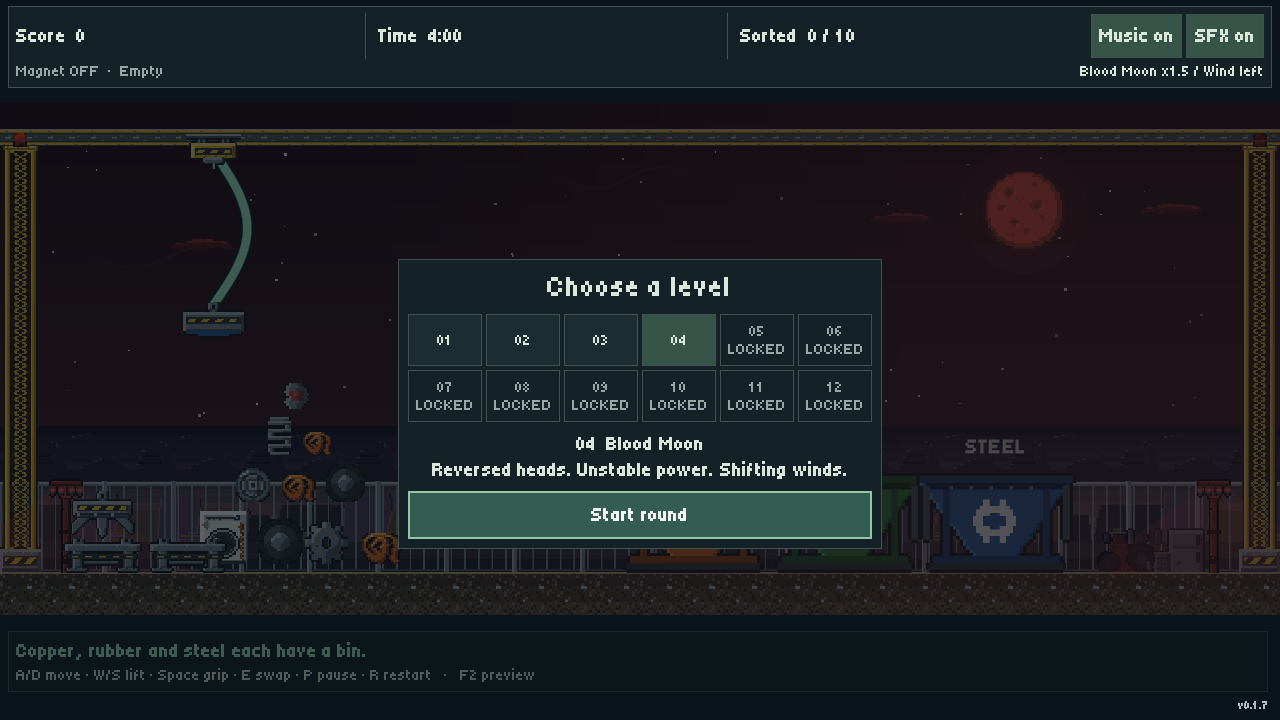
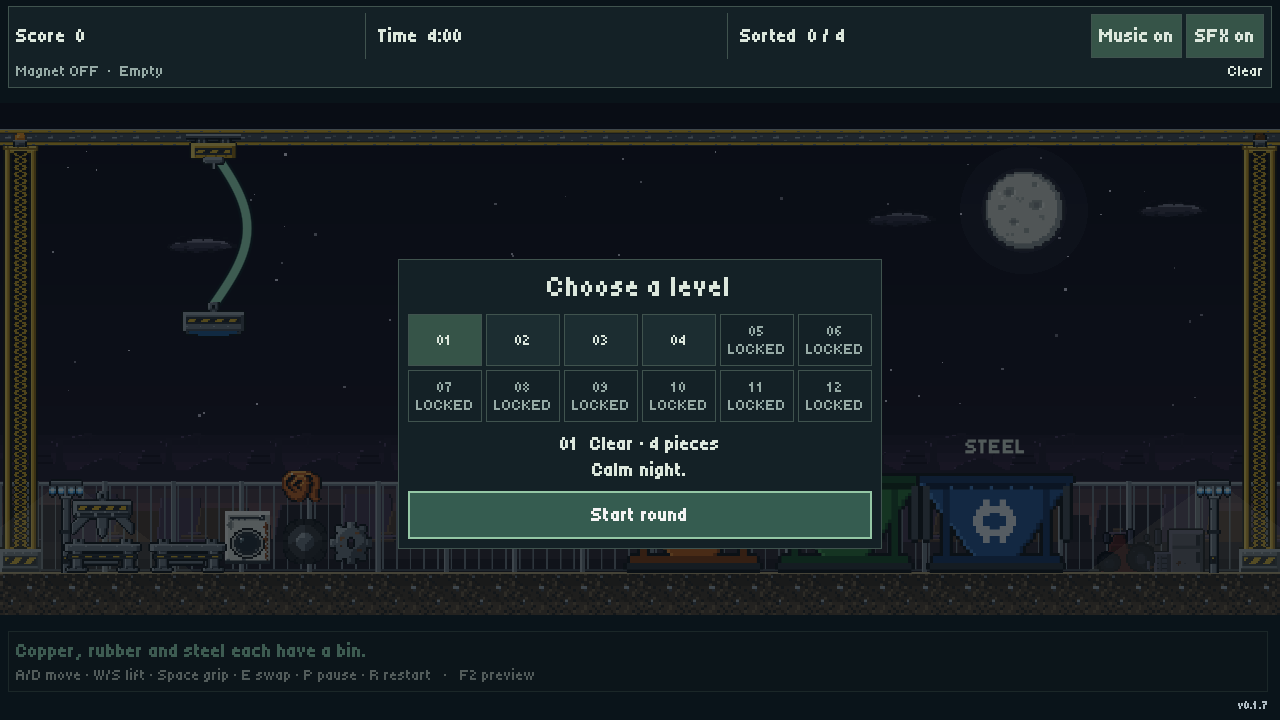
Open level selection at startup and progress through victory screens

diff --git a/tests/run_checks.py b/tests/run_checks.py
@@ -7,6 +7,7 @@ ROOT = Path(__file__).resolve().parents[1]
 BASE = ["godot", "--headless", "--path", str(ROOT)]
 checks = [
     (BASE + ["--editor", "--import", "--quit"], None),
+    (BASE + ["--script", "tests/level_progression_test.gd", "--quit-after", "900", "--max-fps", "60"], "LEVEL_PROGRESSION_TEST_OK"),
     (BASE + ["--script", "tests/blood_moon_test.gd", "--quit-after", "600", "--max-fps", "60"], "BLOOD_MOON_TEST_OK"),
     (BASE + ["--script", "tests/level_selection_test.gd", "--quit-after", "300", "--max-fps", "60"], "LEVEL_SELECTION_TEST_OK"),
     (BASE + ["--script", "tests/input_test.gd", "--max-fps", "60", "--quit-after", "1800", "--", "--touch-controls"], "INPUT_TEST_OK"),

diff --git a/specs/levels.md b/specs/levels.md
@@ -1,10 +1,10 @@
 # Level selection
 
-Reviewed: 2026-09-25. Implementation: level-grid change based on `374729e`.
+Reviewed: 2026-09-25. Implementation: level-flow change based on `575407c`.
 
 `scripts/level/level_catalog.gd` owns twelve slots and four unlocked profiles. Level 1 reuses `data/weather/clear.tres` with no effects. Levels 2 and 3 use `data/levels/breezy.tres` and `violent.tres`; both enable all five existing effects with increasing intensity. Original weighted weather resources/API remain available to labs and tests.
 
-The playable scene starts at level 1 in the ready grid. Selection is accepted only while ready and only for unlocked indexes. Rebuilding uses the selected profile unless the test-only `forced_weather` override is set. Replay retains selection; Levels on pause/results returns to ready. Blood Moon (slot 4) uses a fresh randomized profile from `roll_weather`; slots 5–12 remain locked. No unlock persistence exists. Geometry, controls, scoring rules and timer remain shared.
+`project.godot`, source launcher and exports all open the playable scene at level 1 in the ready grid. Selection is accepted only while ready and only for unlocked indexes. Rebuilding uses the selected profile unless the test-only `forced_weather` override is set. Explicit restart retains selection. A win shows Victory with score/bonuses and Continue; Continue returns to the grid and highlights the next unlocked level (or stays on level 4 after its win). Timeout offers Retry plus Levels; pause offers Levels. Blood Moon (slot 4) uses a fresh randomized profile from `roll_weather`; slots 5–12 remain locked. No unlock persistence exists. Geometry, controls, scoring rules and timer remain shared.
 
 HUD `level_menu` enables the grid and Levels action; `selected_level` selects the tile. `level_selected(index)` and `levels_requested` delegate transitions to the scene. Twelve minimum-44px tiles use six columns, four below 500px. Locked tiles are disabled and labeled LOCKED. Mouse/touch and controller direction selection are supported.
 
@@ -23,3 +23,11 @@ Weather rolls: base wind 16–40, gust 18–40, rain 45–120, fog 0.1–0.28, g
 Verification: `tests/blood_moon_test.gd` covers independent bounded rolls, head mapping, animal exclusion, smooth wind crossing/caps, lamp stutter/outage/recovery, pause and return to Clear.
 
 Blood Moon validation: full managed Godot 4.7 suite passed (`CHECKS_OK`); the subsequent focused test passed real pickup/refusal through both reversed heads. Hardware Gamescope captures on RTX 2080 Ti checked ready, running and outage at 1280×720, 640×360 and 390×844 with Dummy audio. Evidence is local under `.local/blood-moon/`. No new hosted build was published.
+
+## Pile progression and flow verification
+
+Catalog counts are 4, 6, 10 and 12. Layout uses per-count non-overlapping row recipes, all three materials and the existing deterministic jitter/physical settling. Ready details show the selected count. `tests/level_progression_test.gd` checks every count/variant for bounds, material coverage and overlap; all four victories precede grid navigation; button/controller Continue, final-level selection, timeout Retry/Levels and result bounds are covered. Startup navigation reads the configured main scene. The full physics bot retains its original ten-piece test on level 3 with explicit Clear weather.
+
+World rebuilds clear transient feedback so a previous level’s tool/power messages cannot linger on the next selection screen.
+
+Level-flow validation: full managed Godot 4.7 suite passed, including the original ten-piece physics completion in 170.05 simulated seconds. Focused progression checks passed after clearing stale transition feedback. Silent RTX 2080 Ti/Gamescope captures checked opening, victory, next selection and final victory at 1280×720, 960×540, 854×480, 640×360 and 390×844. Local evidence: `.local/level-progression/`. No release/deployment was created.

diff --git a/specs/salvage_prototype.md b/specs/salvage_prototype.md
@@ -1,12 +1,12 @@
 # Playable subsystem integration
 
-Reviewed: 2026-09-25. Implementation: Blood Moon change based on `374729e`.
+Reviewed: 2026-09-25. Implementation: level-flow change based on `575407c`.
 
 ## Composition
 
-`labs/salvage/lab.tscn` composes crane suspension, round/bin, HUD, level layout, ambience and audio modules without replacing the static yard preview. `scripts/scene/yard_preview.gd` adds Play prototype; F2 returns (hidden in `standalone` exports, which start this scene directly). Each subsystem keeps its own lab and verification. The world renders into a native-resolution SubViewport between the HUD bands (measured panel bounds with 6px clearance), fitting 1200×480 world units with preserved aspect ratio. Placements come from [the layout module](level_layout.md), variant 0.
+`labs/salvage/lab.tscn` composes crane suspension, round/bin, HUD, level layout, ambience and audio modules without replacing the static yard preview. The project opens this playable scene at the ready level grid. `scripts/scene/yard_preview.gd` retains Play prototype; F2 opens the preview (hidden in `standalone` exports, which start this scene directly). Each subsystem keeps its own lab and verification. The world renders into a native-resolution SubViewport between the HUD bands (measured panel bounds with 6px clearance), fitting 1200×480 world units with preserved aspect ratio. Placements come from [the layout module](level_layout.md), variant 0.
 
-Ten caller-configured RigidBody2D payloads (`payload.gd`, layer 2) start as a heap; three bins share walls (layer 1); the magnet body is layer 4. Payloads use rectangle shapes and 8× art scaled to their rectangle. Bin art stays axis-aligned; masks are not integrated. `payload.grip_offset()` is the middle of whichever edge currently faces up, so tumbled scrap stays reachable; `grip_point()` is its world position. Payloads emit `landed(at)` on contact while falling faster than 160 units/s.
+Level-dependent 4/6/10/12 caller-configured RigidBody2D payloads (`payload.gd`, layer 2) start as a heap; three bins share walls (layer 1); the magnet body is layer 4. Payloads use rectangle shapes and 8× art scaled to their rectangle. Bin art stays axis-aligned; masks are not integrated. `payload.grip_offset()` is the middle of whichever edge currently faces up, so tumbled scrap stays reachable; `grip_point()` is its world position. Payloads emit `landed(at)` on contact while falling faster than 160 units/s.
 
 ## Heads and stands
 
@@ -22,7 +22,7 @@ The [input module](input.md) additionally supports a standard gamepad and automa
 
 ## Round rules
 
-`ROUND_SECONDS` is 240. A released piece in the matching bin scores +100 and is retired. A wrong bin scores −25 (the score may go negative) and lobs the piece to `REJECT_CLEARANCE` (120) units in front of the leftmost bin, clear of its wall and within reach, so it must still be sorted. Sorting all ten correctly ends the round with 5 points per displayed remaining second (ceiling, matching the timer); reaching zero ends it without. Either end releases the load, disables bins and shows results. The HUD receives snapshots and never owns state.
+`ROUND_SECONDS` is 240. A released piece in the matching bin scores +100 and is retired. A wrong bin scores −25 (the score may go negative) and lobs the piece to `REJECT_CLEARANCE` (120) units in front of the leftmost bin, clear of its wall and within reach, so it must still be sorted. Sorting every piece correctly ends the round with 5 points per displayed remaining second (ceiling, matching the timer); reaching zero ends it without. Either end releases the load, disables bins and shows results. The HUD receives snapshots and never owns state.
 
 ## Presentation
 

diff --git a/design/levels.md b/design/levels.md
@@ -8,10 +8,14 @@ This replaces the earlier random-weather selection in the playable round; the re
 
 RaresKeY, 2026-09-25: [Blood Moon directive](../prompts/source/blood-moon.md) adds level 4 with tainted moon/sky/lights/weather, crows only, reversed heads, intermittent light/generator failure, low-to-medium random weather and smoothly reversing bounded wind.
 
+RaresKeY, 2026-09-25: [level-flow request](../prompts/source/level-flow.md) asks for selection on startup and between levels, preceded by victory results, and Dale’s spawning design with fewer pieces initially and more later. Dale’s [recorded direction](../prompts/source/jam-polish.md) is a big starting pile; the conveyor remains a separate unapproved proposal.
+
 ## AI-inferred design
 
-Twelve numbered square slots, eight locked placeholders, no progression save or automatic unlocking. All four use the existing yard, ten pieces and four-minute timer. Clear, Breezy and Violent are provisional names. Replay retains the chosen level; pause/results provide a Levels action. Mouse/touch selects tiles; controller directions select unlocked levels before A starts. Six columns, four on narrow screens.
+Twelve numbered square slots, eight locked placeholders, no progression save or automatic unlocking. All four use the existing yard and four-minute timer, with progressively larger starting piles. Clear, Breezy and Violent are provisional names. Explicit restart retains the chosen level; victory Continue returns to selection with the next playable level highlighted. Pause and timeout results provide a Levels action. Mouse/touch selects tiles; controller directions select unlocked levels before A starts. Six columns, four on narrow screens.
 
 Breezy: wind 18 + gust 24 every 7–12s, rise 1.5s, grip 0.7, fog 0.18, rain 70, lightning every 35–50s with 1.4s warning and 0.35s cut, multiplier 1.2. Violent: wind 100 + gust 180 every 4–6s, rise 0.8s, grip 0.3, fog 0.3, rain 260, lightning every 8–16s with 1s warning and 1.4s cut, multiplier 1.8. These balance values are agent choices awaiting playtesting.
 
 Blood Moon choices: retain head appearance/animations but swap materials and electrically powered behavior. Wind base 16–40, gust 18–40, rain 45–120, fog 0.10–0.28 and grip 0.55–0.85 roll once per rebuild from independent resource copies; multiplier 1.5. Direction starts randomly, holds 8–18s, then alternates through a 3s smoothstep with signed force capped at ±80. Generator waits 18–32s, right lamp stutters in eight 0.2s steps, power stops for 2–4s, then recovers. Both floodlight cones go dark during generator outage; the right lamp alone stutters. Existing smoke represents the generator exhaust, so new smoke pauses while stopped. Crimson is `(1, .32, .27)`; sky gradient is `220912`–`391721`. Light cones are the existing light masks; collision and alpha-occlusion masks keep their geometry/coverage. These are implementation choices, not separately approved balance values.
+
+Progression choices: 4, 6, 10 and 12 pieces; non-overlapping rows `[3,1]`, `[3,2,1]`, `[4,3,2,1]` and `[4,4,4]`, retaining all three materials in each level. Victory waits for Continue, then highlights the next unlocked slot without auto-starting it. The last playable level returns to its own slot. Timeout offers Retry or Levels. No progression save or new unlock policy is added.

diff --git a/README.md b/README.md
@@ -1,6 +1,6 @@
 # Pocket Salvage
 
-A four-minute scrapyard shift. Drive a swinging crane, swap between a magnet and a claw, and sort ten pieces of scrap before time runs out.
+A four-minute scrapyard shift. Drive a swinging crane, swap between a magnet and a claw, and sort scrap before time runs out.
 
 **[Play in your browser](https://pocket-salvage.web.app/)** · **[Download for Windows or Linux](https://github.com/RaresKeY/pocket-salvage/releases/latest)** · [GitHub Pages mirror](https://rareskey.github.io/pocket-salvage/)
 
@@ -32,16 +32,16 @@ Correct sorts earn **100 points**. A wrong bin throws the item back and costs **
 
 The source version adds a classic 12-slot grid, with four levels unlocked:
 
-| Level | Weather |
-|---|---|
-| 01 · Clear | No weather effects |
-| 02 · Breezy | Light wind, rain, fog and occasional lightning |
-| 03 · Violent | Strong gusts, heavy rain and frequent lightning |
-| 04 · Blood Moon | Crimson sky, reversed heads, generator failures and shifting mild-to-medium weather |
+| Level | Pieces | Weather |
+|---|---|---|
+| 01 · Clear | 4 | No weather effects |
+| 02 · Breezy | 6 | Light wind, rain, fog and occasional lightning |
+| 03 · Violent | 10 | Strong gusts, heavy rain and frequent lightning |
+| 04 · Blood Moon | 12 | Crimson sky, reversed heads, generator failures and shifting mild-to-medium weather |
 
 Blood Moon reverses the tools: the magnet lifts copper/rubber and the claw lifts steel. Wind changes sides smoothly; generator outages disable the claw briefly. Only crows inhabit the cursed yard.
 
-The other eight slots are locked placeholders. Replay keeps your selection; **Levels** on pause and results returns to the grid. Select a tile with mouse/touch, or choose with controller directions and press A to start.
+The other eight slots are locked placeholders. The game opens on this grid. Clear a level to see **Victory**, then **Continue** back to selection with the next playable level highlighted. Timeout offers **Retry** or **Levels**. Explicit restart keeps the same level. Select a tile with mouse/touch, or choose with controller directions and press A to start.
 
 ![The current source level grid: Clear, Breezy, Violent and Blood Moon unlocked, with eight locked slots.](marketing/levels.png)
 
@@ -49,7 +49,7 @@ The other eight slots are locked placeholders. Replay keeps your selection; **Le
 
 ## Development
 
-Made with **Godot 4.7**. Import `project.godot`, run the project, then choose **Play prototype** from the yard preview. Open `labs/salvage/lab.tscn` to run the game directly.
+Made with **Godot 4.7**. Import `project.godot` and run: level selection opens immediately. The playable scene is `labs/salvage/lab.tscn`; F2 opens the optional yard preview in source runs.
 
 On Linux, `./play.sh` launches with desktop audio and `./tests/check` runs the suite. Both require the shared `godot-podman` runner; the launcher also needs a PulseAudio-compatible desktop audio socket. See the setup and alternative commands below.
 

diff --git a/specs/builds.md b/specs/builds.md
@@ -6,7 +6,7 @@ The user requested a versioned standalone prototype and reproducible builds. Exp
 
 Run `python3 tools/build/build_all.py --verify` from clean committed source. The script uses only Python's standard library and the shared `godot-podman` runner (sibling checkout, or `GODOT_PODMAN_RUNNER`). It does not install an engine or templates. `--targets linux web` narrows the build; default builds all four. `--image` chooses an already-present toolchain image.
 
-Each build extracts `git archive HEAD` into an isolated temporary snapshot, stamps all source mtimes from the commit timestamp (`SOURCE_DATE_EPOCH`), and changes only that snapshot's startup to `labs/salvage/lab.tscn`. Text scenes remain text in the package: Godot 4.7 binary scene conversion synthesizes node IDs that vary between clean exports. Disabling that conversion in the snapshot removes this source of differing bytes. The export feature `standalone` suppresses lab navigation. The project version is the source of the displayed/released version. Source and editor startup are not rewritten. All resources are exported because layout entries load textures by constructed paths; static dependency discovery alone misses those textures.
+Each build extracts `git archive HEAD` into an isolated temporary snapshot, stamps all source mtimes from the commit timestamp (`SOURCE_DATE_EPOCH`), and ensures that snapshot's startup is `labs/salvage/lab.tscn` (also the source startup). Text scenes remain text in the package: Godot 4.7 binary scene conversion synthesizes node IDs that vary between clean exports. Disabling that conversion in the snapshot removes this source of differing bytes. The export feature `standalone` suppresses lab navigation. The project version is the source of the displayed/released version. Source and editor startup are not rewritten. All resources are exported because layout entries load textures by constructed paths; static dependency discovery alone misses those textures.
 
 The output is ignored `build/pocket-salvage-<version>/`: runnable platform directories, Linux/Windows/Web ZIP packages, the normalized macOS application ZIP, and `manifest.json`. The manifest records full source revision, epoch, Godot version and executable SHA256, exact export-template SHA256 digests, Python/zlib versions, selected targets and every output SHA256. `--verify` exports twice from independent snapshots and fails unless all exported bytes and toolchain fingerprints match. ZIP order, timestamps and Unix modes are normalized. A manifest without `--verify` explicitly says `not-compared`; repeatability is not inferred from a successful export. Compare with the same engine/templates and Python/zlib toolchain; this does not claim that rebuilding Godot itself is reproducible.
 

diff --git a/tests/README.md b/tests/README.md
@@ -2,7 +2,7 @@
 
 Run `./tests/check` from the repository root on the shared workstation. The script only orchestrates the managed Godot Podman runner; engine execution happens inside one ephemeral managed container. It resolves a sibling `godot-podman` checkout or the `GODOT_PODMAN_RUNNER` override, preserves the hardware-access default, and opens no desktop window.
 
-`run_checks.py` imports the project, verifies exact pixel blocks and alpha, exercises the scaling CLI and provenance, tests lab controls, and runs a two-frame startup. It bounds child processes and rejects logged script errors or missing success markers. This is neither gameplay coverage nor visual/hardware-renderer proof. Other environments can use the equivalent suite in [README.md](../README.md), subject to their local execution rules.
+`run_checks.py` imports the project, verifies exact pixel blocks and alpha, exercises the scaling CLI and provenance, tests lab controls, and runs a two-frame startup. It bounds child processes and rejects logged script errors or missing success markers. Headless checks are not visual/hardware-renderer proof. Other environments can use the equivalent suite in [README.md](../README.md), subject to their local execution rules.
 
 Use [the background capture flow](../labs/pixel_scaling/README.md) for hardware-rendered comparisons. Its image metadata records when an on-screen native-integer/baked comparison was actually checked; offscreen pairs are not counted as proof.
 
@@ -23,3 +23,5 @@ Use [the background capture flow](../labs/pixel_scaling/README.md) for hardware-
 `audio_test.gd` decodes every cue, checks independent SFX/music control and the audio lab. Optional `--require-pulse` validates each cue against actual mixer frames with Master muted downstream. HUD checks cover audio buttons, focus return and hurry-timer state. See [audio](../specs/audio.md).
 
 `input_test.gd` exercises standard gamepad events through Godot’s real input path, analog deadzone and actual crane movement, discrete commands, disconnect/focus recovery, simultaneous touch direction/grip, drag/cancel/release, rotation and phone layouts down to 320×568. The suite uses `--touch-controls` only for this diagnostic; normal visibility is automatic on mobile Web. Physical controller/phone playtests are separate.
+
+`level_selection_test.gd` covers the grid and locked slots. `level_progression_test.gd` checks configured startup, all four pile recipes and material coverage, Victory → Continue → selection, final-level bounds and timeout Retry/Levels. `blood_moon_test.gd` checks reversed pickup, random bounded weather, smooth wind transitions, generator outages, pause and reset isolation. The ten-piece physics regression uses level 3 with explicit Clear weather.

diff --git a/specs/level_layout.md b/specs/level_layout.md
@@ -1,12 +1,12 @@
 # Prototype yard layout subsystem
 
-Reviewed: 2026-09-25. Implementation: Blood Moon change based on `374729e`.
+Reviewed: 2026-09-25. Implementation: level-flow change based on `575407c`.
 
 ## Layout data
 
-`scripts/level/yard_layout.gd` is a RefCounted data factory. `create_layout(variant: int = 0) -> Dictionary` returns fresh caller-owned data; variants wrap modulo two. Keys: `bounds` `Rect2(0, 0, 1200, 480)`, `ground_top` 440, `art_scale` 1.6 (world units per source pixel), `crane_anchor` `(200, 45)`, `pickup_bounds` `Rect2(150, 240, 270, 200)`, `tool_stand` `(96, 424)`, `variant`, `scrap` and `bins`.
+`scripts/level/yard_layout.gd` is a RefCounted data factory. `create_layout(variant: int = 0, scrap_count: int = 10) -> Dictionary` returns fresh caller-owned data; variants wrap modulo two. Keys: `bounds` `Rect2(0, 0, 1200, 480)`, `ground_top` 440, `art_scale` 1.6 (world units per source pixel), `crane_anchor` `(200, 45)`, `pickup_bounds` `Rect2(150, 240, 270, 200)`, `tool_stand` `(96, 424)`, `variant`, `scrap` and `bins`.
 
-`scrap` holds ten dictionaries (five steel, three copper, two rubber) with unique integer `id`, StringName `material`, 8× `texture` path, centre `position`, rectangle `size` and positive `mass`. They are stacked in rows of 4, 3, 2 and 1 around x285 with 8-unit gaps and a fixed jitter under half the gap, so none start overlapping and physics tumbles them into a heap. Variant 1 rotates the order by five. `bins` holds three dictionaries with material, centre, size 150×100 and texture, centred at x650/792/934, y390, spaced `150 - SortingBin.WALL` so neighbours share a wall. No random generator or shared mutable state is involved.
+`scrap` holds ten dictionaries (five steel, three copper, two rubber) with unique integer `id`, StringName `material`, 8× `texture` path, centre `position`, rectangle `size` and positive `mass`. Rows are `[3,1]`, `[3,2,1]`, `[4,3,2,1]` or `[4,4,4]` respectively; pieces are stacked around x285 with 8-unit gaps and a fixed jitter under half the gap, so none start overlapping and physics tumbles them into a heap. Variant 1 rotates the order by five. `bins` holds three dictionaries with material, centre, size 150×100 and texture, centred at x650/792/934, y390, spaced `150 - SortingBin.WALL` so neighbours share a wall. No random generator or shared mutable state is involved.
 
 These dimensions, masses and materials are prototype fixtures, not approved objects or art-derived geometry. The caller builds any collision, sensor or gameplay object. No physics, scoring or timer is owned here.
 

diff --git a/specs/project.md b/specs/project.md
@@ -1,10 +1,10 @@
 # Project Contract
 
-Reviewed: 2026-09-25. Implementation revision: `39312c3` (v0.1.7).
+Reviewed: 2026-09-25. Implementation: level-flow change based on `575407c`.
 
 ## Status and scope
 
-Pocket Salvage is the official game name; its public GitHub repository is `RaresKeY/pocket-salvage`. The selected loop is a magnetic crane collecting and sorting scrap before time expires. Godot 4.7 opens the [scrapyard scene preview](scene_preview.md) in `scenes/main.tscn`, arranging Dale Mooney’s contributed sprites. The pixel-scaling and rope labs remain separate runnable scenes. The preview remains a static arrangement with a Play prototype entry to [the combined lab](salvage_prototype.md). That lab implements a crane with swappable magnet and claw heads and two tool stands, a ten-piece physical scrap heap, three wall-sharing bins with throw-back on a wrong sort, scoring with a time bonus, a 240-second timer, pause/results/restart, animated night scenery and generated audio. Bin-front masking and final gameplay integration remain open. Final art direction remains open. Public delivery covers Windows, Linux and Web; native target-machine verification is recorded separately.
+Pocket Salvage is the official game name; its public GitHub repository is `RaresKeY/pocket-salvage`. The selected loop is a magnetic crane collecting and sorting scrap before time expires. Godot 4.7 opens the level grid in `labs/salvage/lab.tscn`. The static yard preview remains a separate source-only scene accessible with F2, with a Play prototype button back to the game. Technical labs remain separate runnable scenes. That lab implements a crane with swappable magnet and claw heads and two tool stands, a level-dependent physical scrap heap (4/6/10/12 pieces), three wall-sharing bins with throw-back on a wrong sort, scoring with a time bonus, a 240-second timer, pause/results/restart, animated night scenery and generated audio. Bin-front masking and final gameplay integration remain open. Final art direction remains open. Public delivery covers Windows, Linux and Web; native target-machine verification is recorded separately.
 
 ## Source ownership
 

diff --git a/specs/scene_preview.md b/specs/scene_preview.md
@@ -4,7 +4,7 @@ Reviewed: 2026-09-25. Implementation revision: `cdd8a61` (art counts only; the s
 
 ## Composition and ownership
 
-`scenes/main.tscn` is the project startup scene. It arranges 8× nearest-neighbor derivatives of Dale Mooney’s `assets/bitwright/` PNGs from `assets/bitwright_8x/` as a static side-on scrapyard. Named editable Node2D groups separate the tiled environment, gantry, conveyor and incoming scrap, suspended magnet/cog, three sorting bins, and foreground scrap. All thirteen scrap types appear. The supplied dust and spark art use representative still frames; conveyor and magnet use their first frames. Collision/catch/pull masks are not rendered or connected to physics.
+`scenes/main.tscn` is the optional source preview reached with F2; the project now starts in the playable level grid. It arranges 8× nearest-neighbor derivatives of Dale Mooney’s `assets/bitwright/` PNGs from `assets/bitwright_8x/` as a static side-on scrapyard. Named editable Node2D groups separate the tiled environment, gantry, conveyor and incoming scrap, suspended magnet/cog, three sorting bins, and foreground scrap. All thirteen scrap types appear. The supplied dust and spark art use representative still frames; conveyor and magnet use their first frames. Collision/catch/pull masks are not rendered or connected to physics.
 
 `Presentation/HUD` is a CanvasLayer with native-resolution Controls and a shared scene Theme. The contributed coin and timer icons accompany static `000` and `--:--` placeholders. The footer credits Dale Mooney and shows camera controls. Mouse wheel zooms smoothly toward the pointer, left or middle drag pans, and F resets the view. The preview itself has no timer progression, scoring, crane movement, sorting, or rope integration. Its Play prototype button launches [the combined playable lab](salvage_prototype.md), whose F2 shortcut returns here.
 

diff --git a/labs/salvage/README.md b/labs/salvage/README.md
@@ -1,6 +1,6 @@
 # Playable salvage prototype
 
-Run `labs/salvage/lab.tscn` or choose **Play prototype** in the main yard preview. Press **Start round** (or Enter). A/D or arrows move the trolley, W/S or arrows raise/lower the magnet, Space toggles pickup/release, P/Escape pauses, R restarts, and F2 returns to the scene preview. Losing window focus pauses the round. Music/SFX buttons work in all states; M also toggles the existing music loop. Run `./play.sh` from the project root for desktop audio.
+Run the project or `labs/salvage/lab.tscn` to open level selection. Choose a level and press **Start round** (or Enter). Victory shows results before **Continue** returns to the grid with the next playable level selected; timeout offers **Retry** or **Levels**. Piles increase from 4 to 6, 10 and 12 pieces. The optional F2 preview retains its **Play prototype** button. A/D or arrows move the trolley, W/S or arrows raise/lower the magnet, Space toggles pickup/release, P/Escape pauses, R restarts, and F2 returns to the scene preview. Losing window focus pauses the round. Music/SFX buttons work in all states; M also toggles the existing music loop. Run `./play.sh` from the project root for desktop audio.
 
 Lower near a piece, enable the magnet, lift above the bin rims, move to its matching copper/rubber/steel bin and release. Ten pieces, four minutes; correct +100, wrong −25 (score may be negative). Clearing all pieces or reaching zero time ends the round. The magnet carries steel; the claw carries copper and rubber. Park a head on an empty left-hand stand with E, then fit the other head at its stand. Wrong-bin items are thrown back into reach.
 

diff --git a/marketing/README.md b/marketing/README.md
@@ -5,6 +5,6 @@ Intentional public README captures, excluded from Godot imports/exports by `.gdi
 - `pocket-salvage.png`: current gameplay hero showing the pixel-font HUD and Clear level.
 - `levels.png`: ready screen showing four unlocked levels and eight locked placeholders.
 
-Both are unmodified 1280×720 native Godot 4.7 captures made on 2026-09-25. Gameplay uses source `3557892`; the level grid was refreshed with the Blood Moon implementation based on `374729e`, captured with the shared managed runner, headless Gamescope, NVIDIA RTX 2080 Ti hardware rendering and Dummy audio. Gameplay advances through crane movement before capture; no scene elements were composited or generated. Capture script/logs remain locally in `.local/marketing-refresh/` and `.local/blood-moon/`.
+Both are unmodified 1280×720 native Godot 4.7 captures made on 2026-09-25. Gameplay uses source `3557892`; the level grid was refreshed with the level-flow implementation based on `575407c`, captured with the shared managed runner, headless Gamescope, NVIDIA RTX 2080 Ti hardware rendering and Dummy audio. Gameplay advances through crane movement before capture; no scene elements were composited or generated. Capture script/logs remain locally in `.local/marketing-refresh/` and `.local/level-progression/`.
 
 RaresKeY requested this [refresh](../prompts/source/marketing-refresh.md). The root README identifies these as current-source captures: hosted v0.1.7 does not include level selection. Promotional files do not independently authorize a game release or deployment.
